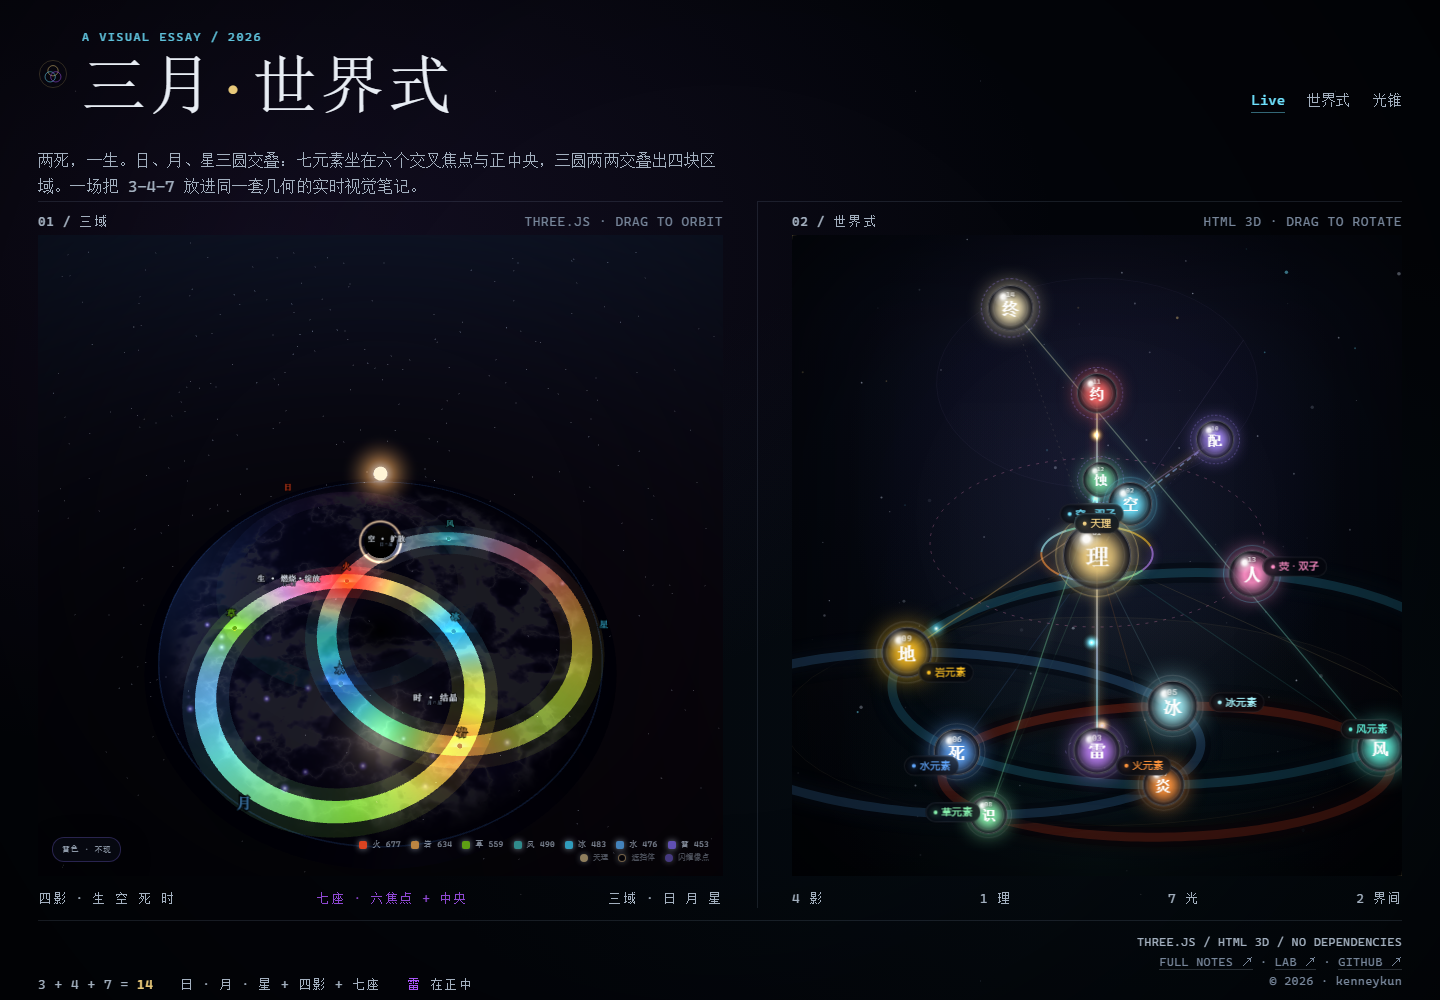
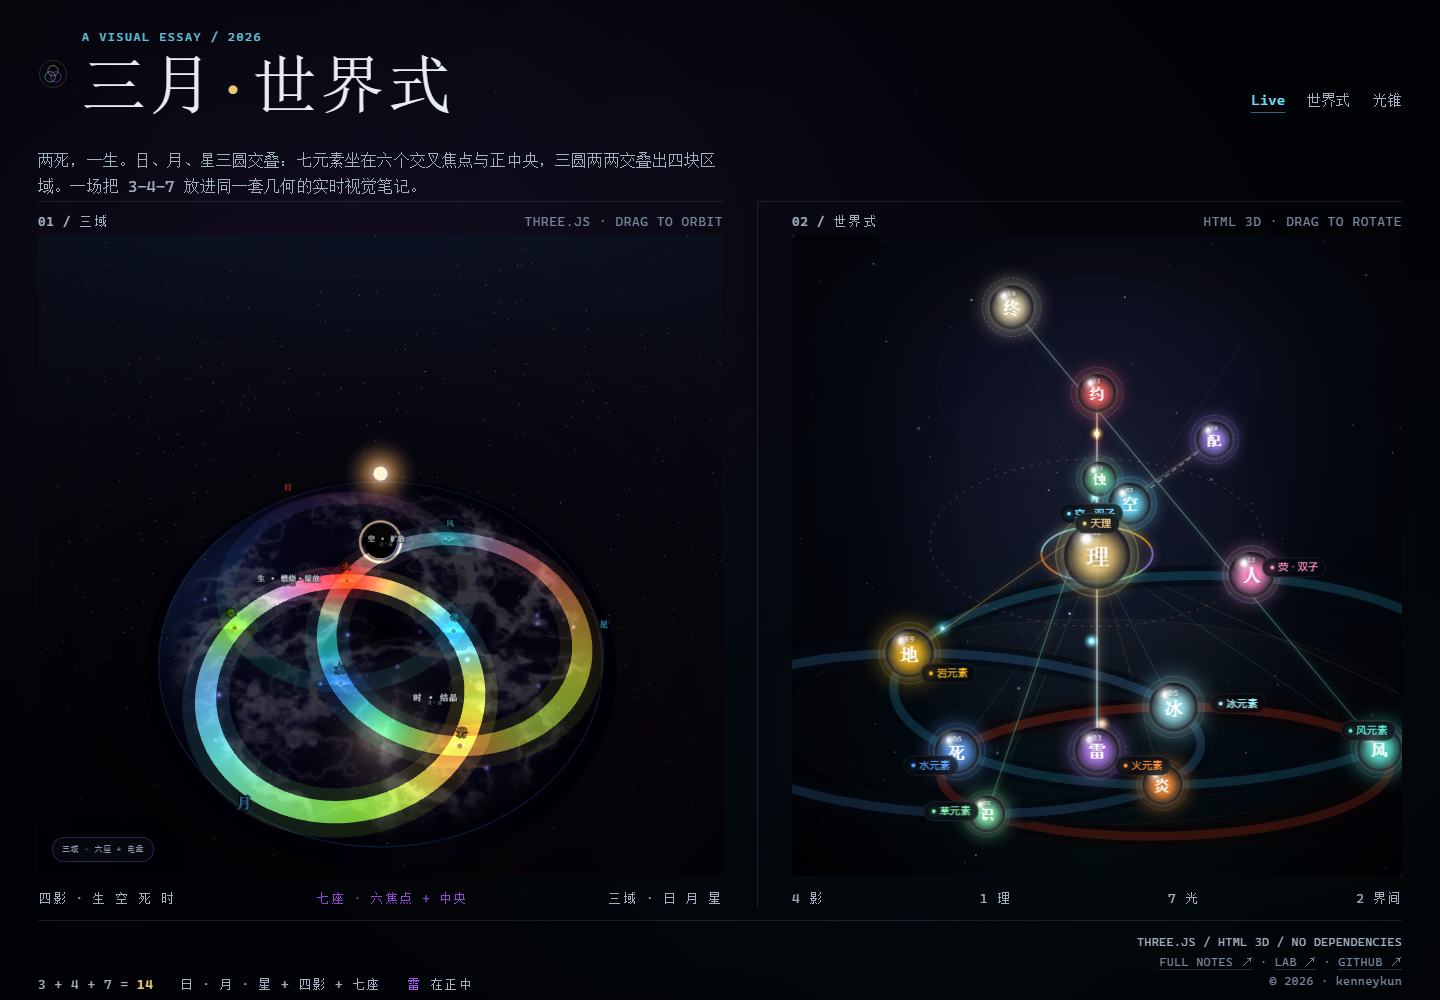
Fix the plate layer stack and drop the retired legend
The electric field sat above the plate surface, so with additive blending it stacked on top of the domain rings instead of reading as being inside the plate. It now renders below the plate top (PLANE_Y - 0.02) with the plate at 0.8 opacity, which puts the order back to: dark plate body, electric filaments inside it, domain rings over it, seat markers and labels last. Field intensity came down roughly 60% after the first pass turned the plate into a glowing nebula.

The wavelength legend markup is removed from the shell (it survived as an embed-only override even though the reading moved to six seats plus an electro medium), and the HUD starts on structure wording instead of the old blaze text.

diff --git a/docs/prism_three_planb.html b/docs/prism_three_planb.html
@@ -463,30 +463,18 @@
   </div>
 </aside>
 
-<div class="legend spectrum-legend" aria-label="七元素对应波长">
-  <span class="spectrum-title">七元素 = 七个波长</span>
-  <span class="spectrum-row">
-    <i style="background:#EC4923"></i>火 677
-    <i style="background:#CC9046"></i>岩 634
-    <i style="background:#66AD16"></i>草 559
-    <i style="background:#359697"></i>风 490
-    <i style="background:#35AACC"></i>冰 483
-    <i style="background:#498FCC"></i>水 476
-    <i style="background:#6957C2"></i>雷 453
-  </span>
-  <span class="spectrum-row dim-row"><i class="sun"></i>天理 <i class="ecl"></i>遮挡体 <i class="th"></i>闪耀像点</span>
-</div>
+
 
 <div class="embed-bar" id="embedBar">
   <button class="btn" id="embedRun" type="button" aria-pressed="false">旋转</button>
   <button class="btn" id="embedFreeze" type="button">冻结重置</button>
   <button class="btn" id="embedStep" type="button">下一交点</button>
-  <span class="state" id="embedState">雷色 · 不现</span>
+  <span class="state" id="embedState">三域 · 六座 + 电盘</span>
 </div>
 
 <div class="hud" id="hud" aria-live="polite">
-  <b id="hudState">雷色 · 不现</b>
-  <span id="hudInfo">光栅 240° · 窗口 ±12°</span>
+  <b id="hudState">三域 · 六座 + 电盘</b>
+  <span id="hudInfo">日 / 月 / 星 · 四影</span>
 </div>
 
 <div id="loading">
@@ -4789,7 +4777,7 @@ window.M3 = {
     new M.MeshPhysicalMaterial({
       color: 0x0b1322, metalness: 0.55, roughness: 0.28, emissive: 0x140c2a, emissiveIntensity: 0.45,
       envMapIntensity: 0.55, clearcoat: 0.4, clearcoatRoughness: 0.3,
-      transparent: true, opacity: 0.9,
+      transparent: true, opacity: 0.80,
     })
   );
   plate.position.y = PLANE_Y - 0.06;
@@ -4856,14 +4844,14 @@ window.M3 = {
           float t = uTime * 0.22;
           // 脊状噪声 → 细电丝
           float n1 = fbm(p * 3.1 + vec2(t, -t * 0.7));
-          float fil = 1.0 - smoothstep(0.0, 0.10, abs(n1 - 0.5));
+          float fil = 1.0 - smoothstep(0.0, 0.075, abs(n1 - 0.5));
           // 更细的高频碎丝
           float n2 = fbm(p * 7.4 - vec2(t * 1.7, t * 0.8));
           float micro = pow(max(0.0, 1.0 - abs(n2 - 0.5) * 3.0), 5.0);
           // 偶发的亮弧：低频噪声过阈值才闪
           float n3 = fbm(p * 1.7 + vec2(-t * 0.5, t * 0.4));
           float surge = smoothstep(0.72, 0.86, n3) * (0.5 + 0.5 * sin(uTime * 5.0 + n3 * 30.0));
-          float glow = 0.16 + 1.05 * fil + 0.75 * micro + 0.55 * surge;
+          float glow = 0.09 + 0.70 * fil + 0.42 * micro + 0.28 * surge;
           float edge = smoothstep(1.0, 0.82, r);
           vec3 col = mix(vec3(0.42, 0.30, 1.00), vec3(0.94, 0.90, 1.0), clamp(fil + micro, 0.0, 1.0));
           gl_FragColor = vec4(col * glow * edge, 1.0);
@@ -4872,7 +4860,7 @@ window.M3 = {
     })
   );
   boltPlate.rotation.x = -Math.PI / 2;
-  boltPlate.position.y = PLANE_Y + 0.003;
+  boltPlate.position.y = PLANE_Y - 0.020;   // 沉在盘面之下，隔着玻璃盘透出来
   boltPlate.renderOrder = -3;
   scene.add(boltPlate);
   /* 带电荷的粒子：在盘面上方缓慢漂浮，忽明忽暗 */

diff --git a/docs/index.html b/docs/index.html
@@ -179,7 +179,7 @@
     <section class="figure">
       <div class="fig-head"><b>01 / 三域</b><span>Three.js · drag to orbit</span></div>
       <div class="frame-wrap">
-        <iframe src="prism_three_planb.html?visual=1&v=domain9" title="三域结构：日 / 月 / 星三圆、七元素座位与四影交叠" loading="eager" scrolling="no"></iframe>
+        <iframe src="prism_three_planb.html?visual=1&v=domain10" title="三域结构：日 / 月 / 星三圆、七元素座位与四影交叠" loading="eager" scrolling="no"></iframe>
       </div>
       <div class="fig-foot">
         <span>四影 · 生 空 死 时</span>
@@ -191,7 +191,7 @@
     <section class="figure tree">
       <div class="fig-head"><b>02 / 世界式</b><span>HTML 3D · drag to rotate</span></div>
       <div class="frame-wrap">
-        <iframe src="world_formula.html?embed=1&v=domain9" title="世界式十四节点立体图" loading="eager" scrolling="no"></iframe>
+        <iframe src="world_formula.html?embed=1&v=domain10" title="世界式十四节点立体图" loading="eager" scrolling="no"></iframe>
       </div>
       <div class="fig-foot">
         <span>4 影</span>
